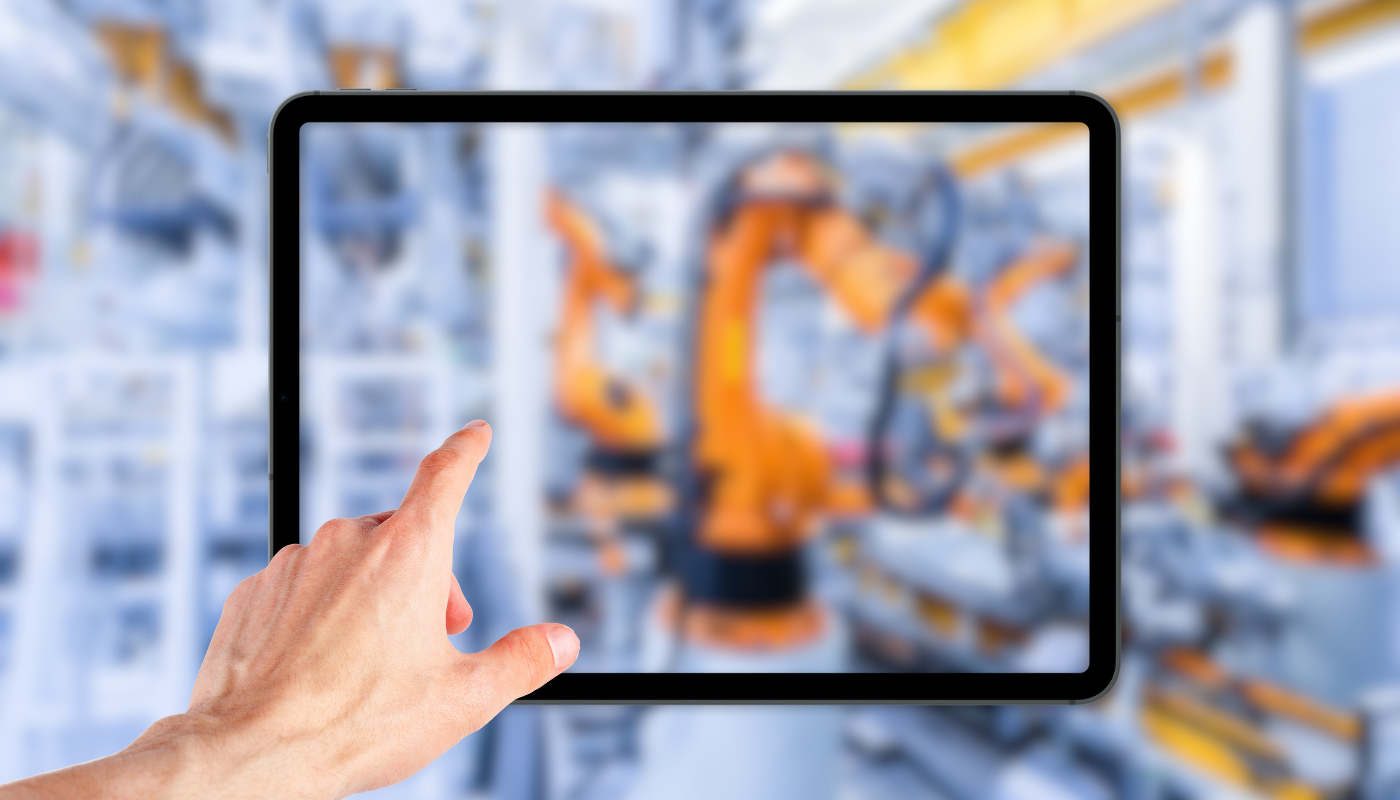
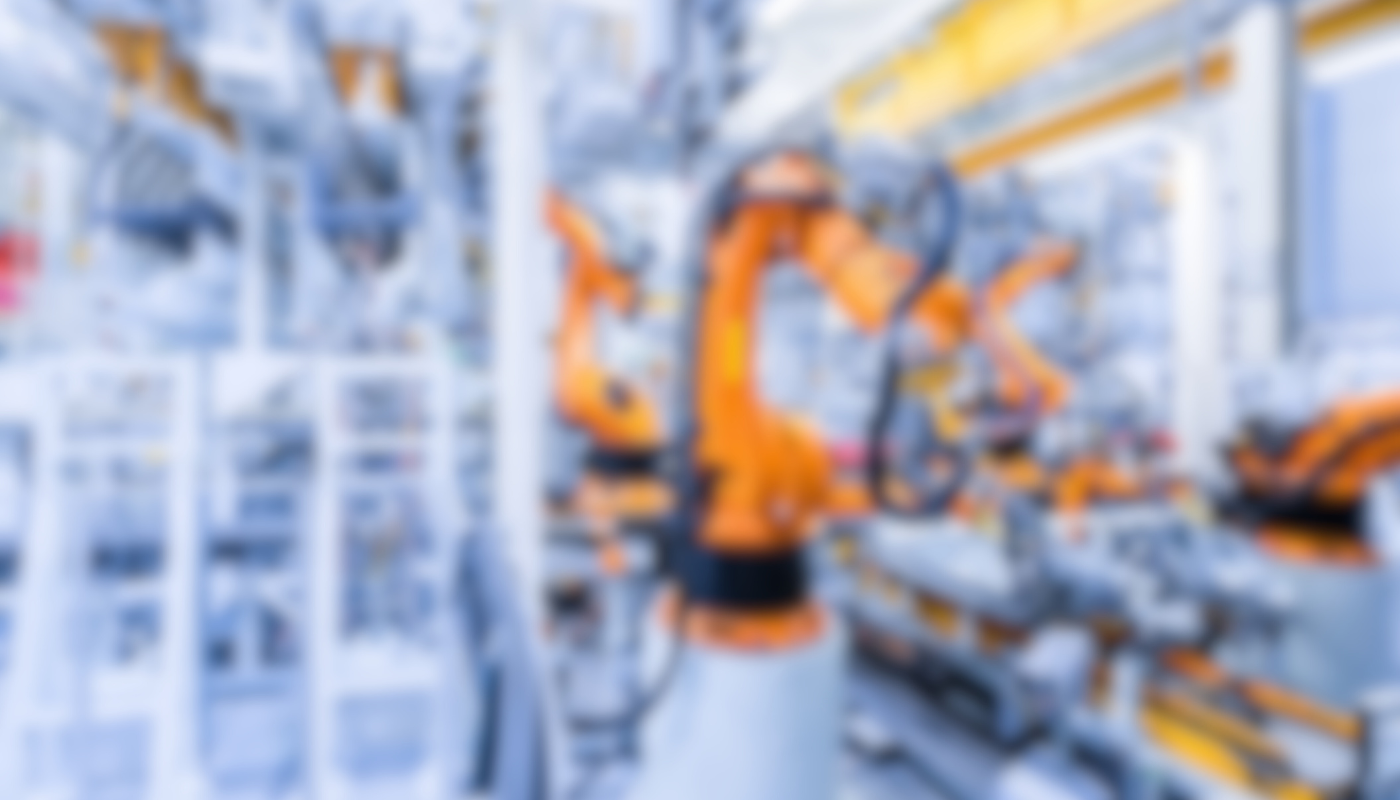
final for jul 17

Changed region(s): [[0.0, 0.0938, 0.8293, 1.0]]

diff --git a/index.html b/index.html
@@ -839,7 +839,7 @@ body
 #wb_FlexContainer1
 {
    background-color: transparent;
-   background-image: url('images/Cre&#769;ation%20sans%20titre%20%281%29.png');
+   background-image: url('images/3.png');
    background-repeat: no-repeat;
    background-position: center center;
    background-size: cover;
@@ -2570,6 +2570,66 @@ body
    width: 100% !important;
 }
 }
+#wb_Image3
+{
+   margin: 0;
+   vertical-align: top;
+}
+#Image3
+{
+   border: 0px solid #000000;
+   border-radius: 0px;
+   box-sizing: border-box;
+   padding: 0;
+   animation: heartbeat-1 1000ms linear 0ms infinite normal both;
+   display: block;
+   width: 100%;
+   height: auto;
+   max-width: 79px;
+   margin-left: auto;
+   margin-right: auto;
+   vertical-align: top;
+}
+#wb_Image4
+{
+   margin: 0;
+   vertical-align: top;
+}
+#Image4
+{
+   border: 0px solid #000000;
+   border-radius: 0px;
+   box-sizing: border-box;
+   padding: 0;
+   animation: heartbeat-1 1000ms linear 0ms infinite normal both;
+   display: block;
+   width: 100%;
+   height: auto;
+   max-width: 79px;
+   margin-left: auto;
+   margin-right: auto;
+   vertical-align: top;
+}
+#wb_Image5
+{
+   margin: 0;
+   vertical-align: top;
+}
+#Image5
+{
+   border: 0px solid #000000;
+   border-radius: 0px;
+   box-sizing: border-box;
+   padding: 0;
+   animation: heartbeat-1 1000ms linear 0ms infinite normal both;
+   display: block;
+   width: 100%;
+   height: auto;
+   max-width: 79px;
+   margin-left: auto;
+   margin-right: auto;
+   vertical-align: top;
+}
 </style>
 <script src="js/jquery-3.7.1.min.js"></script>
 <script src="js/jquery.ui.effect.min.js"></script>
@@ -2685,18 +2745,27 @@ body
 <div class="col-4">
 </div>
 <div class="col-5">
+<div id="wb_Image3" style="display:block;width:100%;height:auto;z-index:11;">
+<a href="javascript:displaylightbox('./images/Ajouter des lignes dans le corps du texte.png',{width:805,height:405})" target="_self"><img src="images/rec.png" id="Image3" alt="" width="85" height="85"></a>
+</div>
 </div>
 <div class="col-6">
 </div>
 <div class="col-7">
 </div>
 <div class="col-8">
+<div id="wb_Image4" style="display:block;width:100%;height:auto;z-index:12;">
+<a href="javascript:displaylightbox('./images/Ajouter des lignes dans le corps du texte.png',{width:805,height:405})" target="_self"><img src="images/rec.png" id="Image4" alt="" width="85" height="85"></a>
+</div>
 </div>
 <div class="col-9">
 </div>
 <div class="col-10">
 </div>
 <div class="col-11">
+<div id="wb_Image5" style="display:block;width:100%;height:auto;z-index:13;">
+<a href="javascript:displaylightbox('./images/Ajouter des lignes dans le corps du texte.png',{width:805,height:405})" target="_self"><img src="images/rec.png" id="Image5" alt="" width="85" height="85"></a>
+</div>
 </div>
 <div class="col-12">
 </div>
@@ -2706,7 +2775,7 @@ body
 </div>
 <div id="wb_FlexContainer1">
 <div id="FlexContainer1">
-<div id="wb_MediaPlayer1" style="display:inline-block;width:942px;height:614px;z-index:12;">
+<div id="wb_MediaPlayer1" style="display:inline-block;width:942px;height:614px;z-index:15;">
 <video id="MediaPlayer1" autoplay controls>
 <source src="Création%20sans%20titre.mp4" type="video/mp4">
 </video>
@@ -2717,7 +2786,7 @@ body
 <div id="wb_FlexContainer2">
 <div id="FlexContainer2">
 <hr id="HorizontalLine3" style="display:block;">
-<div id="wb_Heading2" style="display:block;width:382px;z-index:14;">
+<div id="wb_Heading2" style="display:block;width:382px;z-index:17;">
 <h2 id="Heading2">Testimonial</h2>
 </div>
 <hr id="HorizontalLine4" style="display:block;">
@@ -2727,7 +2796,7 @@ body
 <section id="testimonials4LayoutGrid">
 <div class="row">
 <div class="col-1">
-<div id="wb_testimonials4Card1" style="display:flex;width:100%;z-index:16;" class="card">
+<div id="wb_testimonials4Card1" style="display:flex;width:100%;z-index:19;" class="card">
 <div id="testimonials4Card1-card-body">
 <div id="testimonials4Card1-card-item0"><i class="fa fa-quote-left"></i></div>
 <div id="testimonials4Card1-card-item1"><h1>Virtual-Process allows us to communicate faster with our employees while also ensuring, at every point of the assembly, that we are making flawless products</h1></div>
@@ -2752,21 +2821,21 @@ body
 </div>
 <div id="wb_features2CardContainer">
 <div id="features2CardContainer">
-<div id="wb_features2Card1" style="display:flex;z-index:18;" class="card">
+<div id="wb_features2Card1" style="display:flex;z-index:21;" class="card">
 <div id="features2Card1-card-body">
 <div style="overflow:hidden"><img id="features2Card1-card-item0" src="images/design%2dsans%2dtitre.png" width="600" height="500" alt="" title=""></div>
 <div id="features2Card1-card-item1">MMTS 2024</div>
 <div id="features2Card1-card-item2"> Quebec's Premier Manufacturing Technology Event</div>
 </div>
 </div>
-<div id="wb_Card1" style="display:flex;z-index:19;" class="card">
+<div id="wb_Card1" style="display:flex;z-index:22;" class="card">
 <div id="Card1-card-body">
 <div style="overflow:hidden"><img id="Card1-card-item0" src="images/apex24logo_0.png" width="1200" height="675" alt="" title=""></div>
 <div id="Card1-card-item1">IPC APEX EXPO 2024</div>
 <div id="Card1-card-item2">The largest electronic manufacturing event in North America featuring a world-class trade show.</div>
 </div>
 </div>
-<div id="wb_Card2" style="display:flex;z-index:20;" class="card">
+<div id="wb_Card2" style="display:flex;z-index:23;" class="card">
 <div id="Card2-card-body">
 <div style="overflow:hidden"><img id="Card2-card-item0" src="images/lpms%2devents%2dthe%2dassembly%2dshow%2dsouth%2d2023.jpg" width="900" height="675" alt="" title=""></div>
 <div id="Card2-card-item1">THE ASSEMBLY SHOW SOUTH</div>
@@ -2777,7 +2846,7 @@ body
 </div>
 <div id="wb_FlexContainer4">
 <div id="FlexContainer4">
-<div id="wb_divider3Heading" style="display:block;width:475px;z-index:21;">
+<div id="wb_divider3Heading" style="display:block;width:475px;z-index:24;">
 <h2 id="divider3Heading">Our gallery</h2>
 </div>
 </div>
@@ -2786,7 +2855,7 @@ body
 <div id="gallery1LayoutGrid">
 <div class="row">
 <div class="col-1">
-<div id="wb_galleryPhotoGallery" style="display:block;width:100%;z-index:22;">
+<div id="wb_galleryPhotoGallery" style="display:block;width:100%;z-index:25;">
 <div id="galleryPhotoGallery">
    <div class="thumbnails">
       <figure class="thumbnail">
@@ -2883,20 +2952,20 @@ body
 <div class="col-1">
 </div>
 <div class="col-2">
-<div id="wb_Image6" style="display:block;width:100%;height:auto;z-index:24;">
+<div id="wb_Image6" style="display:block;width:100%;height:auto;z-index:27;">
 <img src="images/Yellow%20Logo_03.gif" id="Image6" alt="" width="437" height="223">
 </div>
 </div>
 <div class="col-3">
 </div>
 <div class="col-4">
-<div id="wb_form3Heading" style="display:block;width:100%;z-index:25;">
+<div id="wb_form3Heading" style="display:block;width:100%;z-index:28;">
 <h1 id="form3Heading">CONTACT US</h1>
 </div>
 <div id="wb_form3Text">
 <span style="color:#FFFFFF;font-family:Arial;font-size:16px;"><em>Any questions or remarks? Just write us a message!</em></span>
 </div>
-<div id="wb_form3Shape" style="display:inline-block;width:86px;height:6px;z-index:27;position:relative;">
+<div id="wb_form3Shape" style="display:inline-block;width:86px;height:6px;z-index:30;position:relative;">
 <div id="form3Shape"></div>
 </div>
 </div>
@@ -2910,15 +2979,15 @@ body
 <div id="wb_form3Address">
 <span style="color:#FFFFFF;font-family:Arial;font-size:16px;">1060 Bd du Curé-Labelle,<br>Blainville, QC J7C 2M6<br>Email: info@virtual-process.com<br></span>
 </div>
-<div id="wb_form3Icon1" style="display:inline-block;width:32px;height:32px;text-align:center;z-index:29;">
+<div id="wb_form3Icon1" style="display:inline-block;width:32px;height:32px;text-align:center;z-index:32;">
 <a href="#"><div id="form3Icon1"><i class="fa fa-linkedin-square"></i></div></a>
 </div>
 </div>
 <div class="col-2">
-<input type="text" id="form3Name" style="display:block;width: 100%;height:42px;z-index:30;" name="name" value="" spellcheck="false" placeholder="Name">
-<input type="text" id="form3Email" style="display:block;width: 100%;height:42px;z-index:31;" name="email" value="" spellcheck="false" placeholder="E-mail">
-<input type="text" id="form3Message" style="display:block;width: 100%;height:141px;z-index:32;" name="message" value="" spellcheck="false" placeholder="Message">
-<input type="submit" id="form3Button" name="" value="Send message" style="display:inline-block;width:188px;height:40px;z-index:33;">
+<input type="text" id="form3Name" style="display:block;width: 100%;height:42px;z-index:33;" name="name" value="" spellcheck="false" placeholder="Name">
+<input type="text" id="form3Email" style="display:block;width: 100%;height:42px;z-index:34;" name="email" value="" spellcheck="false" placeholder="E-mail">
+<input type="text" id="form3Message" style="display:block;width: 100%;height:141px;z-index:35;" name="message" value="" spellcheck="false" placeholder="Message">
+<input type="submit" id="form3Button" name="" value="Send message" style="display:inline-block;width:188px;height:40px;z-index:36;">
 </div>
 </div>
 </form>
